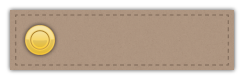
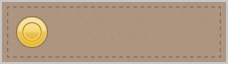
Update labe-eweros and its position in store and craft screens

diff --git a/src/StoreScreen.js b/src/StoreScreen.js
@@ -68,18 +68,18 @@ exports = Class(View, function (supr) {
 
         // coin background
         this.addSubview(new ImageView({
-            x: 390,
-            y: 496,
-            width: 244,
-            height: 80,
+            x: 398,
+            y: 504,
+            width: 228,
+            height: 64,
             image: 'resources/images/label-eweros.png'
         }));
         this.coinsLabel = new TextView({
             superview: this,
-            x: 452,
-            y: 516,
-            width: 152,
-            height: 40,
+            x: 453,
+            y: 522,
+            width: 150,
+            height: 28,
             color: '#333333',
             fontFamily: 'delius',
             horizontalAlign: 'left',

diff --git a/src/CraftScreen.js b/src/CraftScreen.js
@@ -53,10 +53,10 @@ exports = Class(View, function (supr) {
         }, _myBGOpts));
 
         _totalEwerosBG = new ImageView(merge({
-            x: 390,
-            y: 496,
-            height: 80,
-            width: 244,
+            x: 398,
+            y: 504,
+            width: 228,
+            height: 64,
             image: 'resources/images/label-eweros.png'
         }, _myBGOpts));
 
